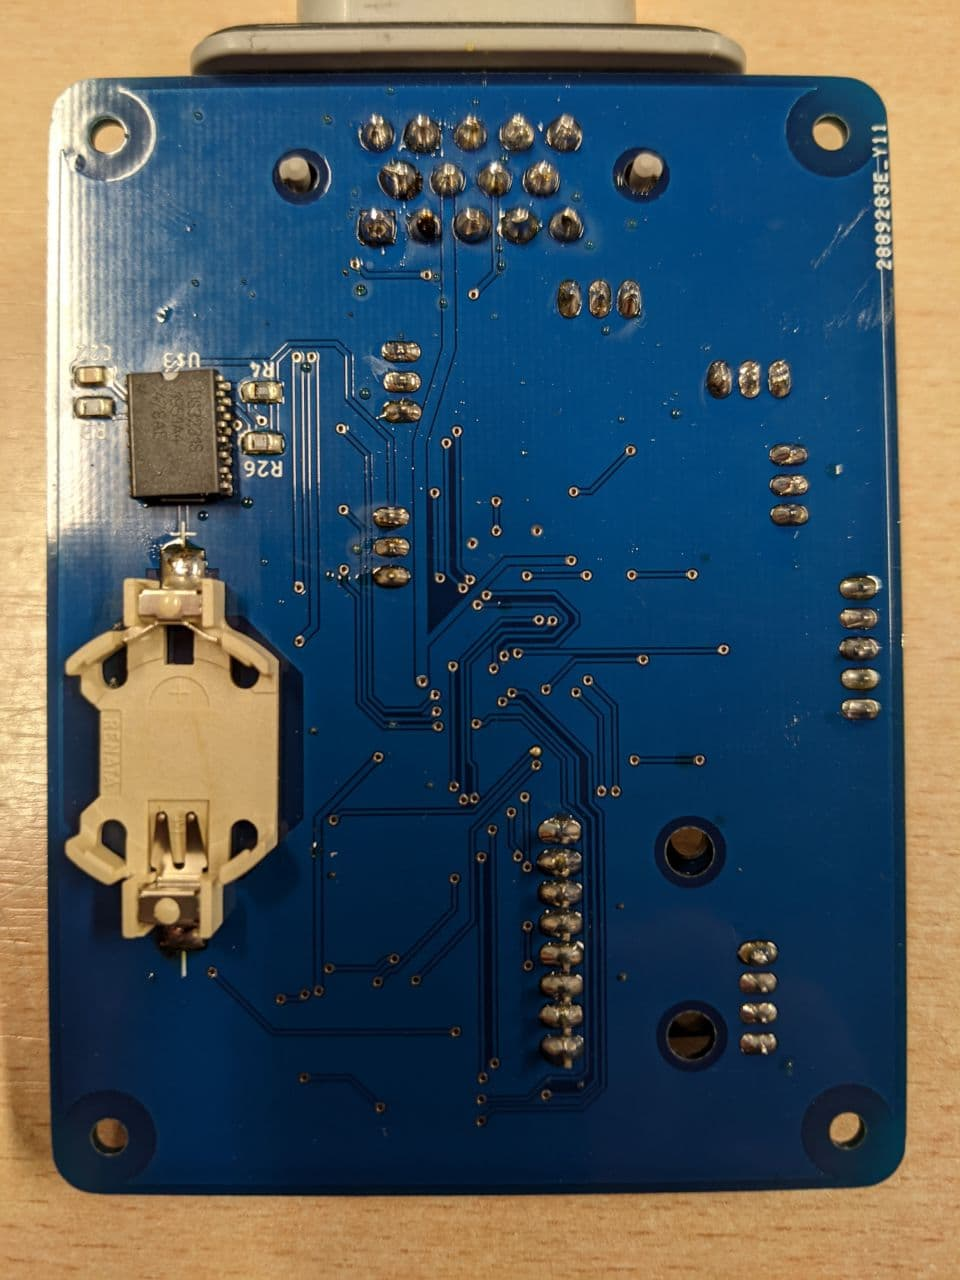
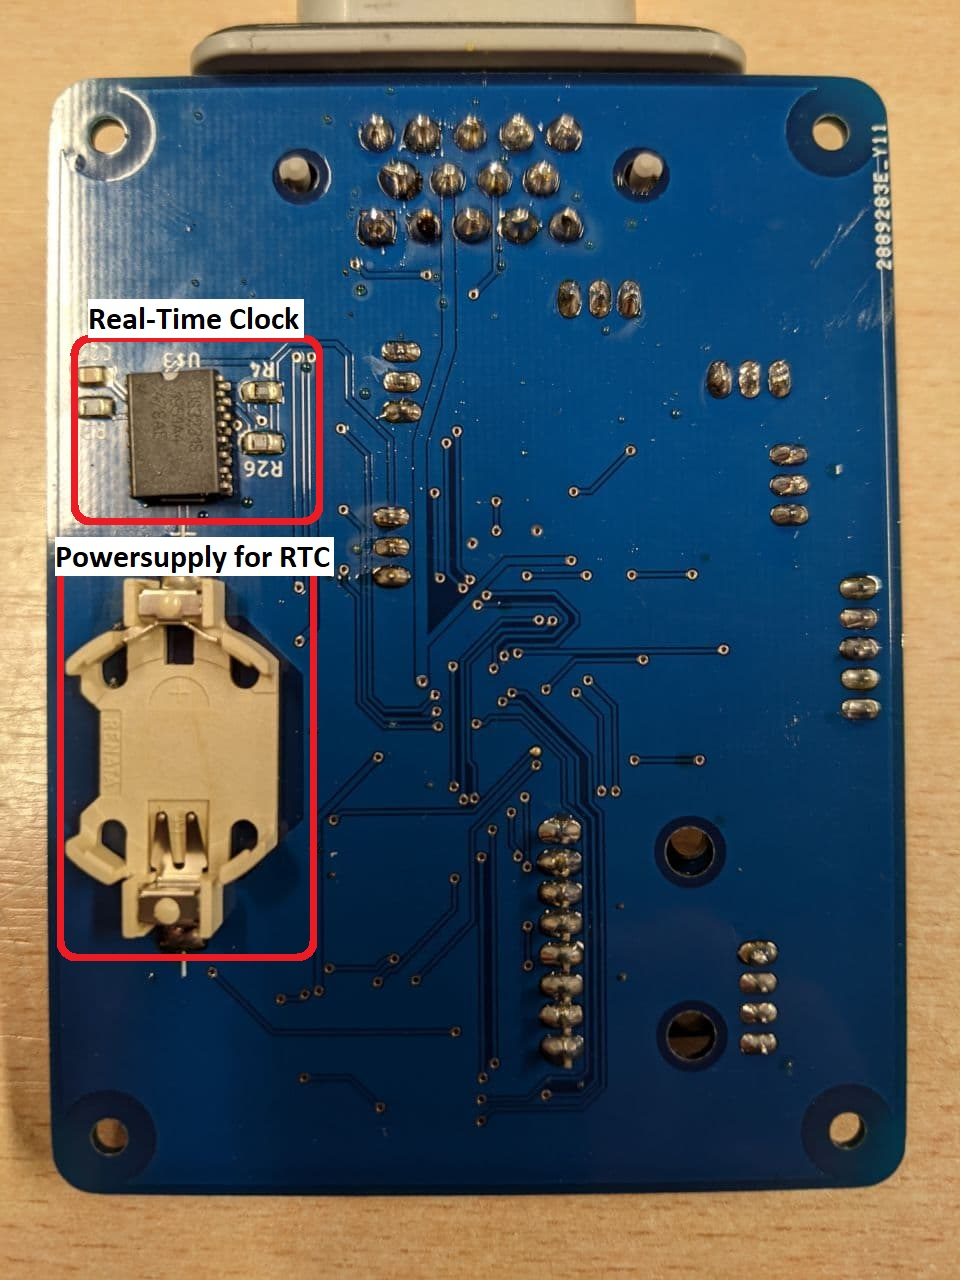
updated README

Changed region(s): [[0.0312, 0.2188, 0.3438, 0.75]]

diff --git a/README.md b/README.md
@@ -1,1 +1,16 @@
 # Datalogger-RubMotorsport
+
+## Overview
+
+For all RUB-Motorsport vehicles it makes sense to install a data logger in the vehicle. This can access and log all engine data (from the MS3) and all sensor data via the CAN bus. Up to now, RUBMotorsport has used a purchased data logger from 2D. This works well and has worked reliably over the years. However, only one data logger is available, due to the very high purchase price and the relatively easy installation in new vehicles, a new purchase was not made. The big disadvantage of this data logger is the software that comes with it. This must be used to export data from the data logger in e.g. *.csv files. The software license must be renewed every year, at the latest in February for one year. For the renewal of the license there is an annual fee of 500€. Due to the reasons mentioned above, in the 2020 season we will develop our own data logger based on a STM32F405RG. This should have all the previous functions of the 2D data logger and at a later date can also be integrated into the planned telemetry concept. 
+
+The data logger has several connections to the outside world. These include the power supply of 12V, the connection to a GPS antenna, the possibility to process four sensor analog signals and supply them with voltage and the measurement of acceleration using an IMU. The option to store the measurement data on a microSD card is also part of the peripherals.
+
+
+<p align="center">
+	<img src="img/frontside_datalogger.jpg" width="410">
+</p>
+
+<p align="center">
+	<img src="img/backside_datalogger.jpg" width="410">
+</p>
